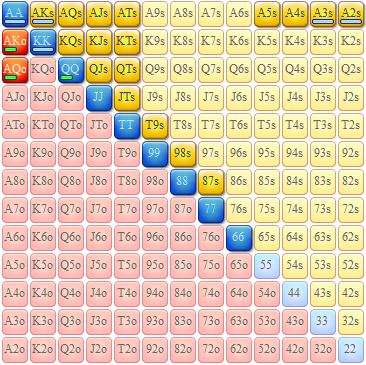
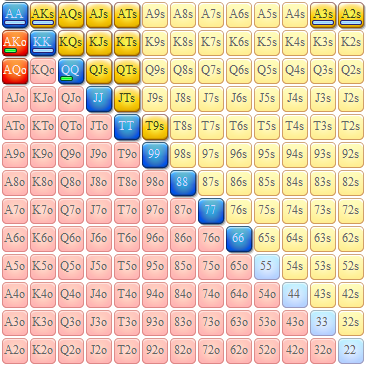
fixed def BB ranges

diff --git a/js/structure.js b/js/structure.js
@@ -262,7 +262,7 @@ const struct = {
     ],
     'def BB': [
       'vs 10% (3bb)',
-      'vs 15% (3bb)',
+      ['vs 15% (3bb)', 'Purple: fold vs strong agressive opponents'],
       'vs 20% (2,5bb)',
       'vs 25% (2,5bb)',
       'vs 30% (2,5bb)',
